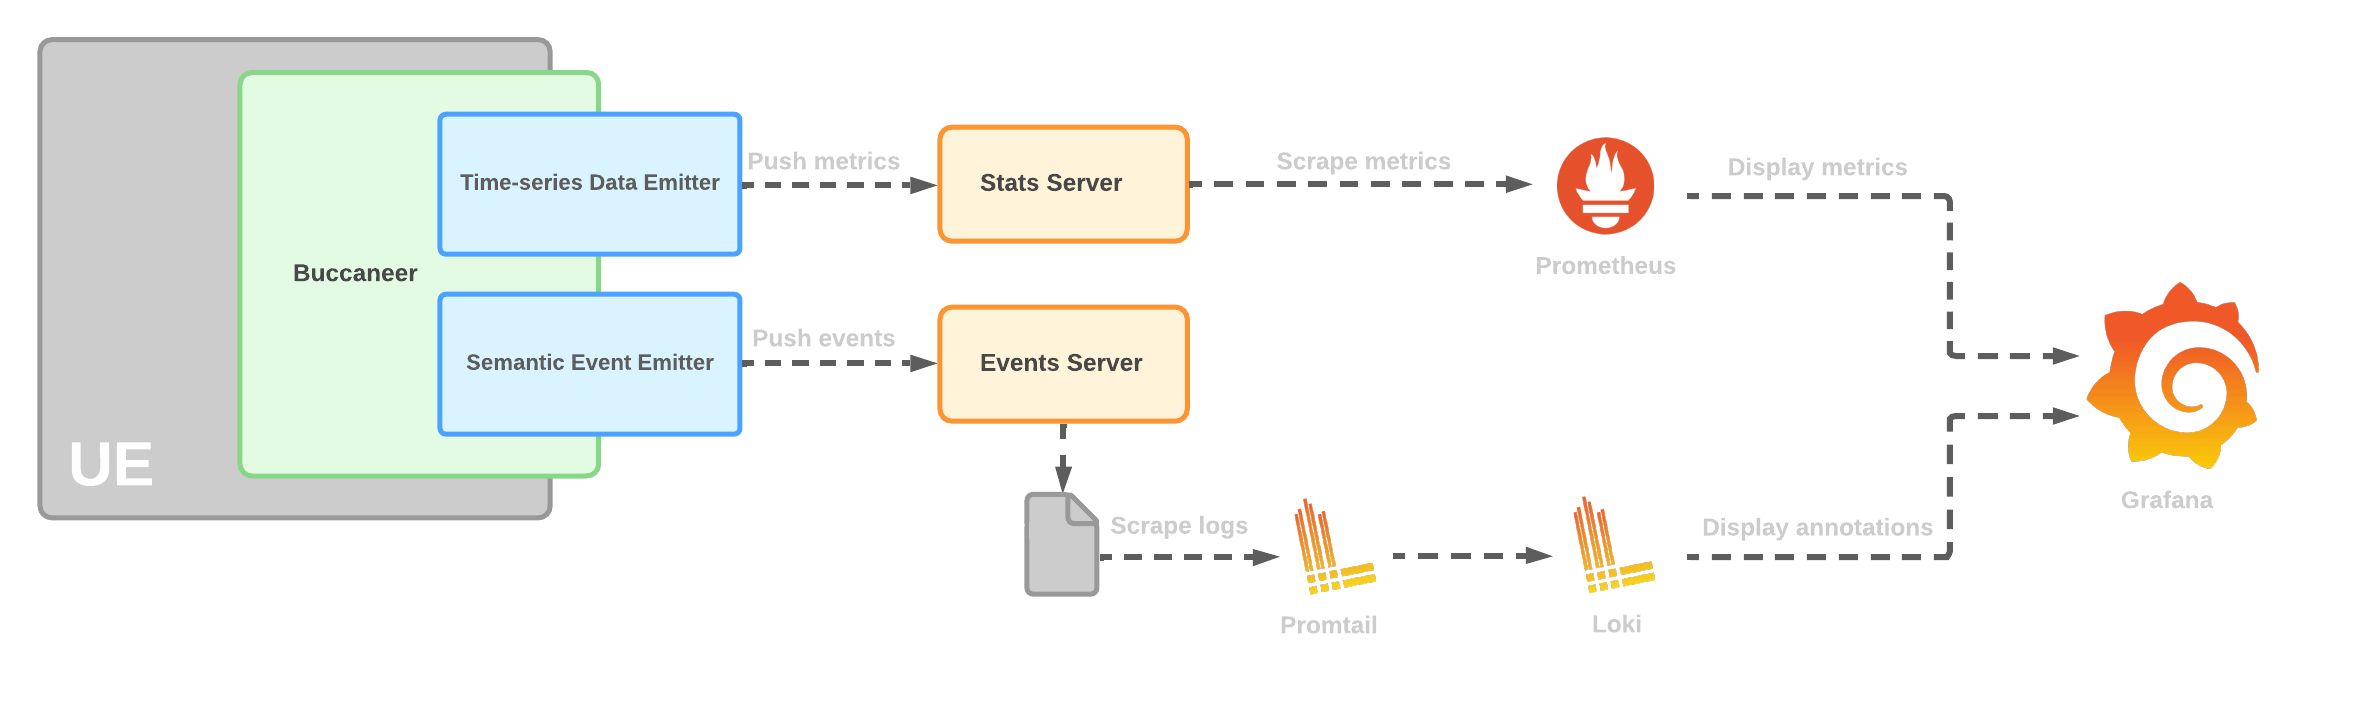
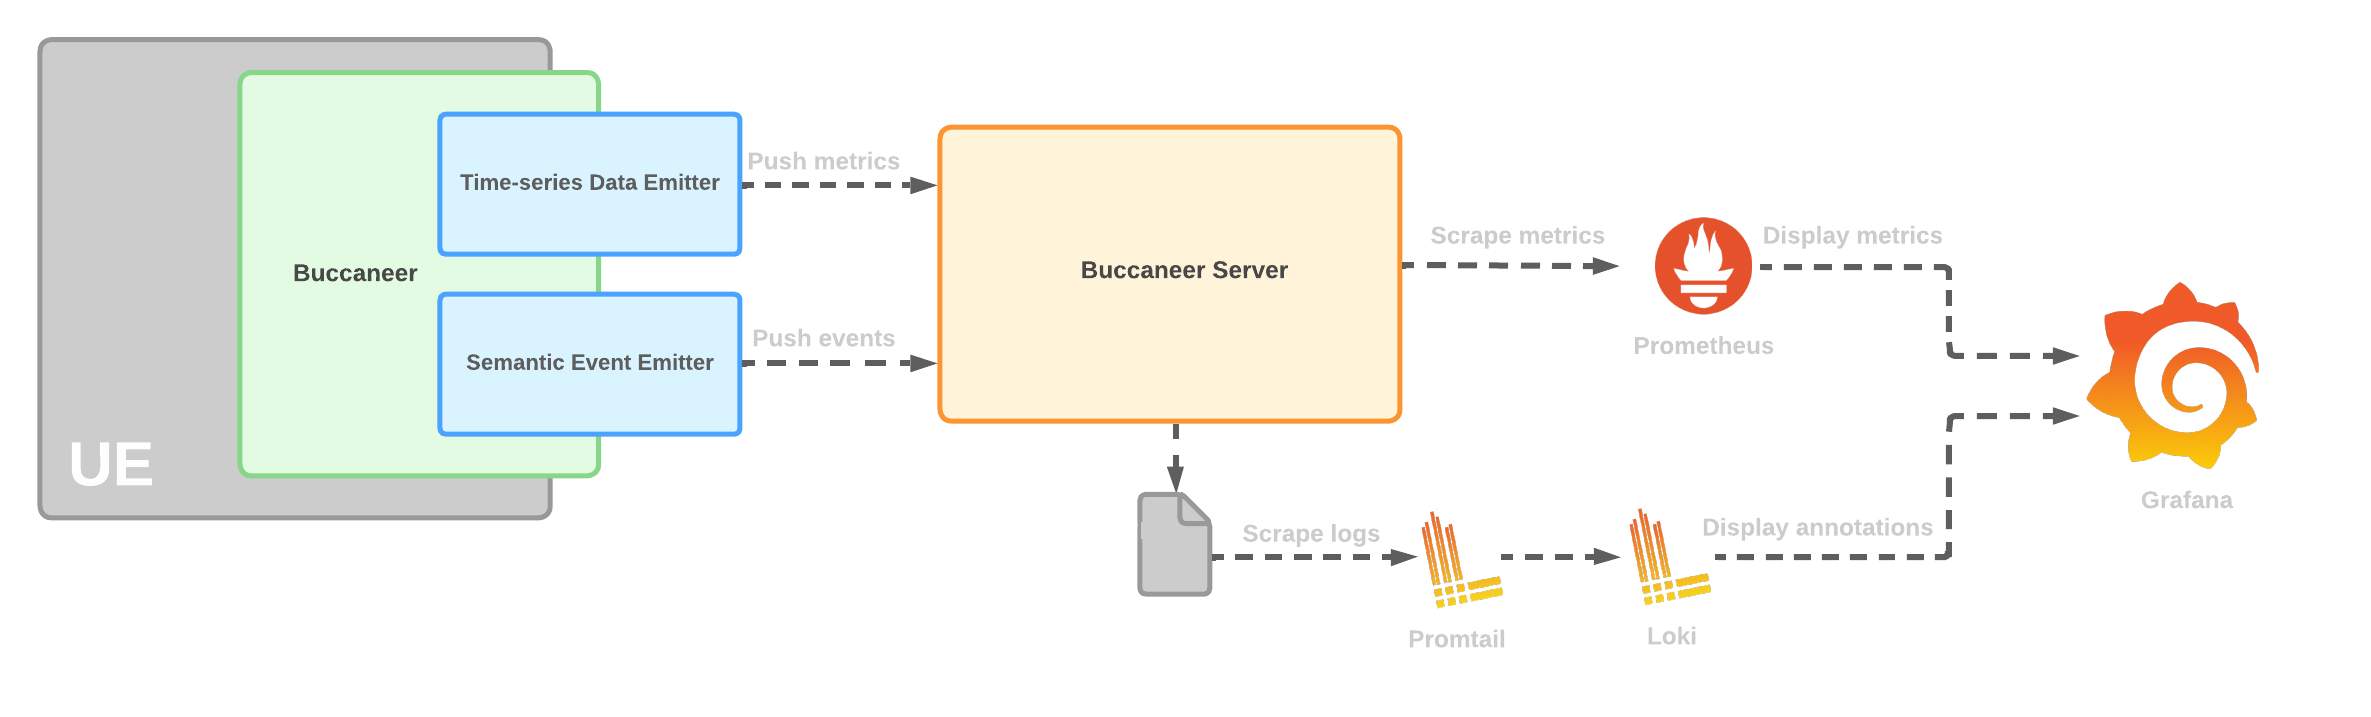
update docs

diff --git a/readme.md b/readme.md
@@ -47,13 +47,6 @@ The Buccaneer plugin consists of two primary components:
     
     - Copy the `Plugins` folder to this directory
     
-
-- Adding to the engine (if building the engine from source)
-    
-    - Navigate to the plugins folder of the Unreal Engine which is `Engine/Plugins`
-    
-    - Place the `Buccaneer` and `Buccaneer4PixelStreaming` folders into this directory
-    
 <br></br>
 
 ### Using the Semantic Event Emitter
@@ -74,11 +67,11 @@ or with the `EmitSemanticEvent(FString Level, FString Event)` function. In order
 
 The majority of the configurations provided can be left as-is. However, [Line 19 of `promtail-local-config.yaml`](https://github.com/Belchy06/Buccaneer/blob/48aff076edbfad76fe349c0de4d85e52f7b3d0c2/Configs/promtail-local-config.yaml#L19) requires you to configure the path to the log file of the events server. 
 
-#### Starting the Go Servers
+#### Starting the Buccaneer Server
 
-Both servers can be started by running their respective executables. 
+The Buccaneer server can be started by running its executable located under `/Build` or by running `go run ./main.go` from the `Server/BuccaneerServer` directory. 
 
-By default, the stats server listens for metric pushes on `127.0.0.1:8000`, while the events server listens for events on `127.0.0.1:8080`
+By default, the server listens for metric and event pushes on `127.0.0.1:8000`
 <br></br>
 
 #### Required Launch Arguments
@@ -86,18 +79,17 @@ By default, the stats server listens for metric pushes on `127.0.0.1:8000`, whil
 The following launch arguments must be specified when launching an Unreal Engine application that uses Buccaneer:
 | Command Line Argument | Description |
 | --------------------- | ------------ |
-| -StatsEmitterURL=\<value> | Specifies the URL used to push performance metrics to |
-| -EventEmitterURL=\<value> | Specifies the URL used to push semantic events to |
+| -BuccaneerURL=\<value> | Specifies the URL used to push performance metrics and semantic events to |
 
 <br></br>
 
 #### Optional Launch Arguments
 
-The following launch arguments aren't required. However, many applications using Buccaneer may find them useful :
+The following launch arguments aren't required. However, many applications using Buccaneer may find them useful:
 | Command Line Argument | Description |
 | --------------------- | ------------ |
-| -InstanceID=\<value> | Specifies the ID of the instance. This is used in distinguishing which metrics came from which instance. If the argument is left empty, the ID is generated by the stats server |
-| -StatsMetadata=\<values> | Specifies additional metadata for use in distinguishing instances in multi-instance deployments. This is a semi-colon seperated list of key:value pairs. eg "-StatsMetadata=KeyX:ValueX;KeyY:ValueY" |
+| -BuccaneerID=\<value> | Specifies the ID of the instance. This is used in distinguishing which metrics came from which instance. If the argument is left empty, the ID is generated by the stats server |
+| -BuccaneerMetadata=\<values> | Specifies additional metadata for use in distinguishing instances in multi-instance deployments. This is a semi-colon separated list of key:value pairs. eg "-BuccaneerMetadata=KeyX:ValueX;KeyY:ValueY" |
 
 <br></br>
 
@@ -106,7 +98,7 @@ The following launch arguments aren't required. However, many applications using
 The following launch arguments must be specified when launching an Unreal Engine application that uses Buccaneer:
 | Command Line Argument | Default Value| Description |
 | --------------------- | ------------ |------------ |
-| -BuccaneerEnablePerformanceStats=\<true/false> | true | Whether the pushing of performance stats is enabled |
+| -BuccaneerEnableStats=\<true/false> | true | Whether the pushing of performance stats is enabled |
 | -BuccaneerEnableEvents=\<true/false> | true | Whether the pushing of semantic events is enabled |
 | -Buccaneer4PixelStreamingEnableStats=\<true/false> | true | Whether the pushing of stats collected from pixel streaming is enabled |
 
@@ -124,7 +116,7 @@ The following CVars can be used to toggle on and off aspects of Buccaneer at run
 
 A typical application launch is as follows:
 ```
-MyBuccaneerApplication.exe -StatsEmitterURL="127.0.0.1:8000" -EventEmitterURL="127.0.0.1:8080"
+MyBuccaneerApplication.exe -BuccaneerURL="127.0.0.1:8000"
 ```
 
 
